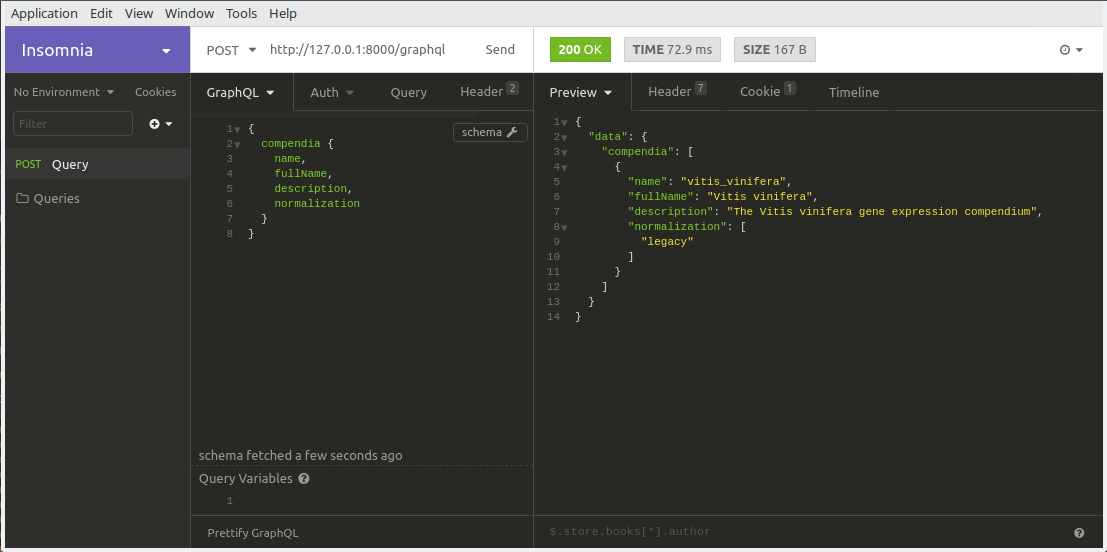
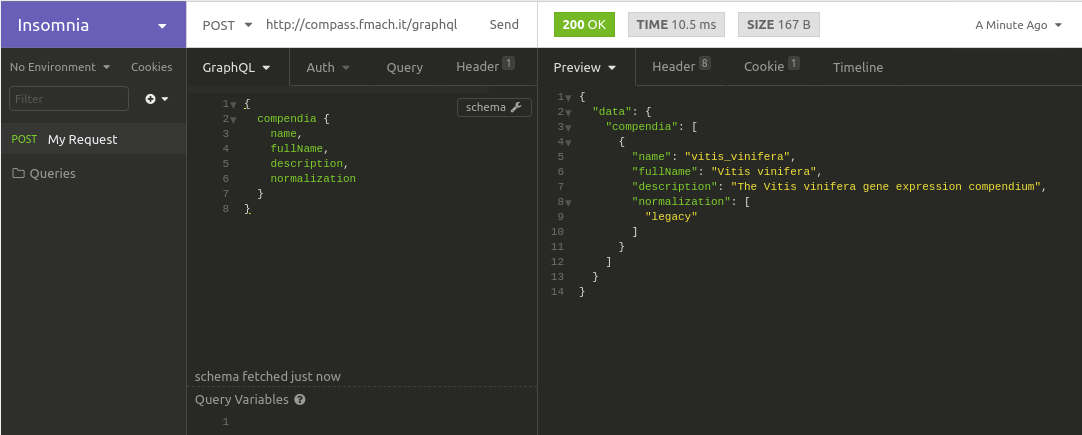
docs

diff --git a/compass/settings.py b/compass/settings.py
@@ -101,7 +101,7 @@ DATABASES = {
         'NAME': 'expdata_bsubt',
         'USER': os.environ['COMPASS_DB_USER'],
         'PASSWORD': os.environ['COMPASS_DB_PASS'],
-        'HOST': 'jabberwocky', #os.environ['COMPASS_DB_SERVICE'],
+        'HOST': os.environ['COMPASS_DB_SERVICE'], #'jabberwocky', #
         'PORT': os.environ['COMPASS_DB_PORT'],
         'COMPENDIUM': True,
     }

diff --git a/compass_graphql/lib/schema/sample_set.py b/compass_graphql/lib/schema/sample_set.py
@@ -30,6 +30,11 @@ class SampleSetType(DjangoObjectType):
         }
         interfaces = (graphene.relay.Node,)
 
+    normalization = graphene.String()
+
+    def resolve_normalization(self, info, **kwargs):
+        return self.normalization_experiment.normalization.name
+
 
 class Query(object):
     sample_sets = DjangoFilterConnectionField(SampleSetType,

diff --git a/compass_graphql/lib/schema/score_rank_methods.py b/compass_graphql/lib/schema/score_rank_methods.py
@@ -22,8 +22,8 @@ class ScoreRankMethodsType(ObjectType):
     class Meta:
         default_resolver = dict_resolver
 
-    sample_sets = graphene.String()
-    biological_features = graphene.String()
+    sample_sets = graphene.List(graphene.String)
+    biological_features = graphene.List(graphene.String)
 
 
 class RankingType(ObjectType):

diff --git a/compass_graphql/docs/quickstart.rst b/compass_graphql/docs/quickstart.rst
@@ -25,7 +25,7 @@ The result reflects the query structure and consists of a JSON document. Insomni
       
       import requests
 
-      url = 'http://vespucci.fmach.it/graphql'
+      url = 'http://compass.fmach.it/graphql'
       query = '''
         {
             compendia {
@@ -36,7 +36,7 @@ The result reflects the query structure and consists of a JSON document. Insomni
             }
         }
       '''
-      request = requests.post('http://127.0.0.1:8000/graphql', json={'query': query})
+      request = requests.post('http://compass.fmach.it/graphql', json={'query': query})
       print(request.json())
 
       
